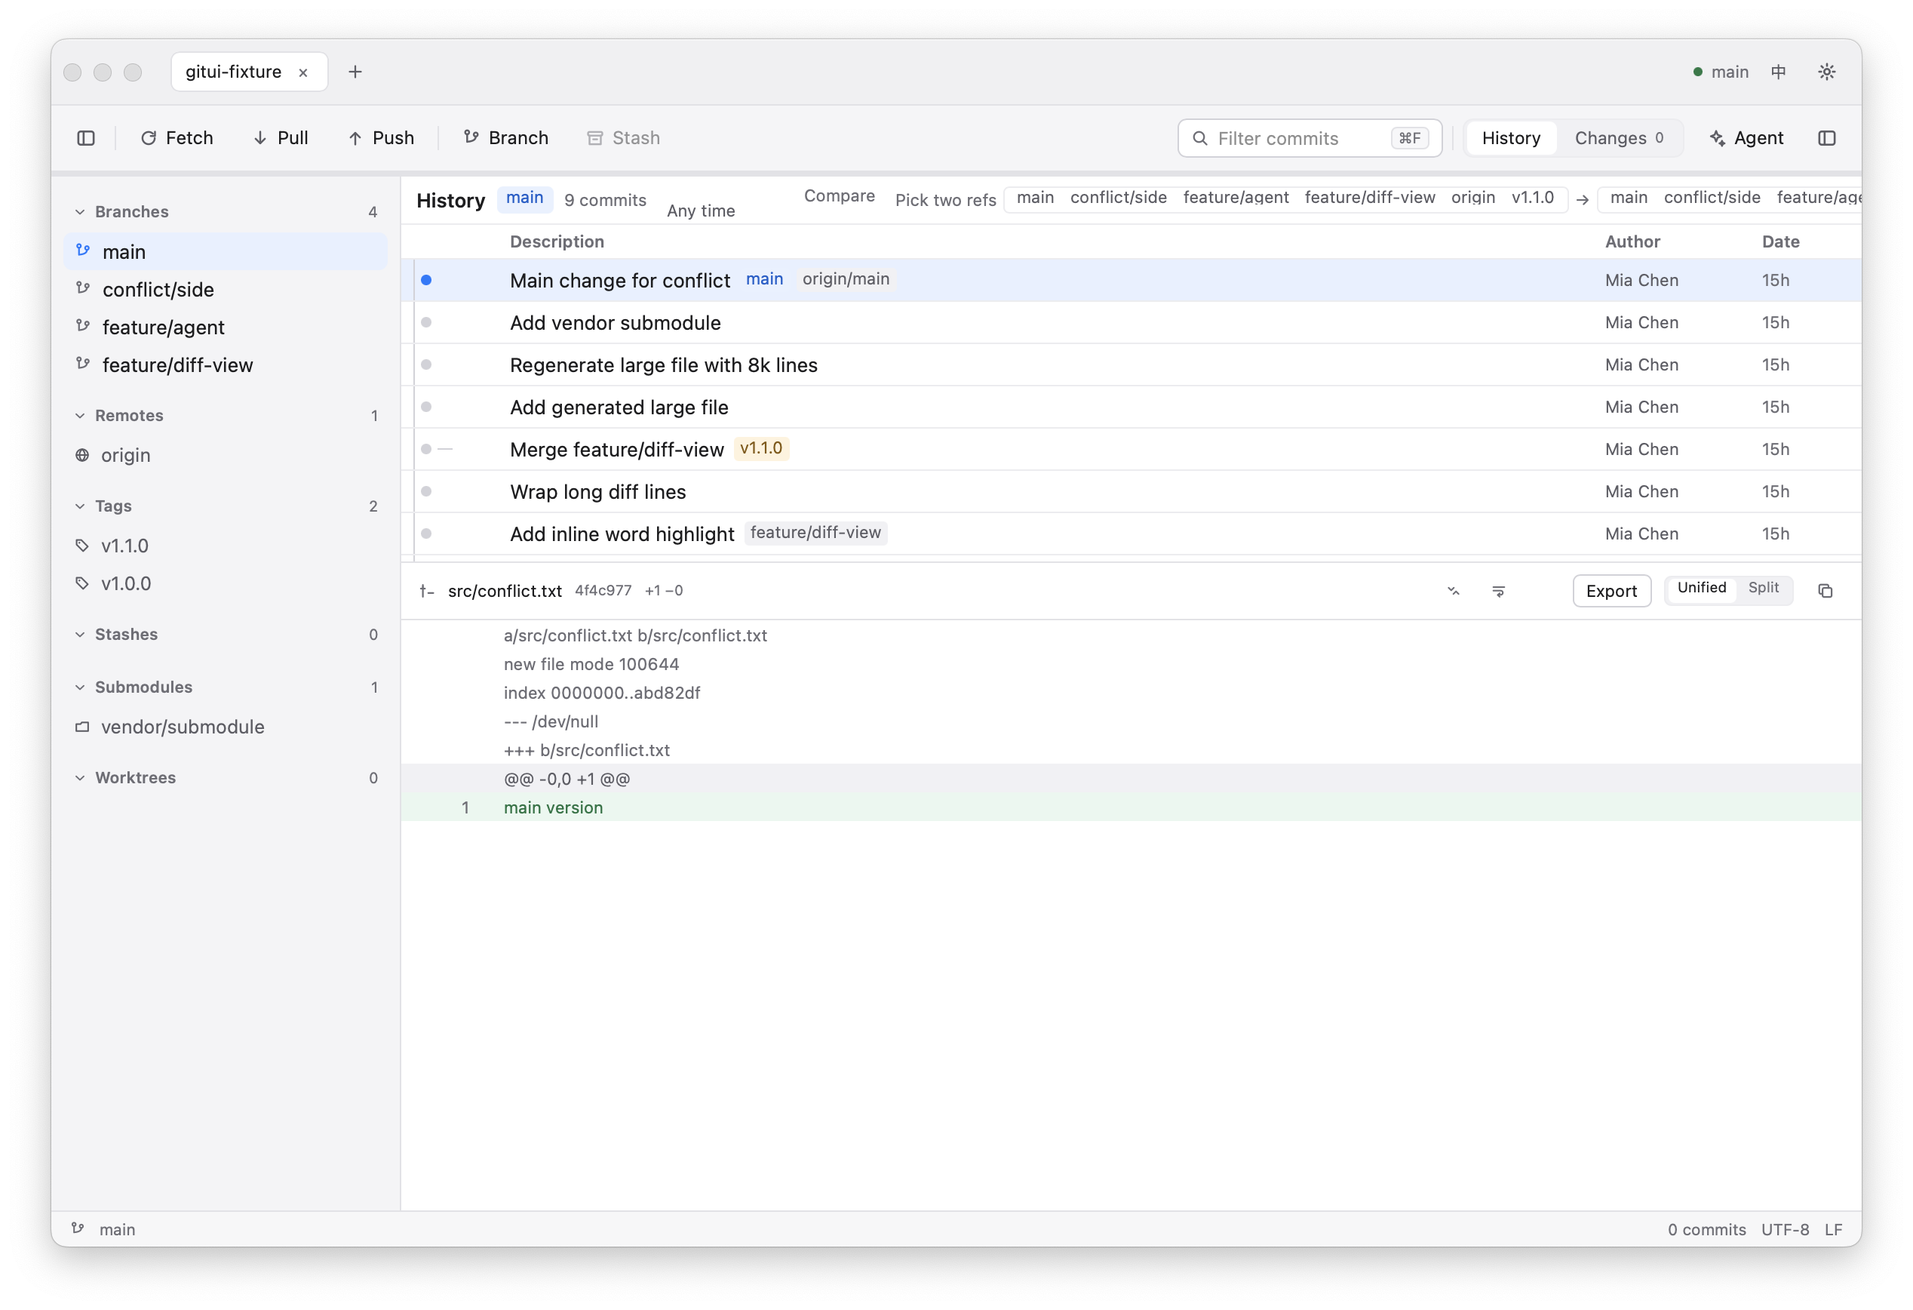
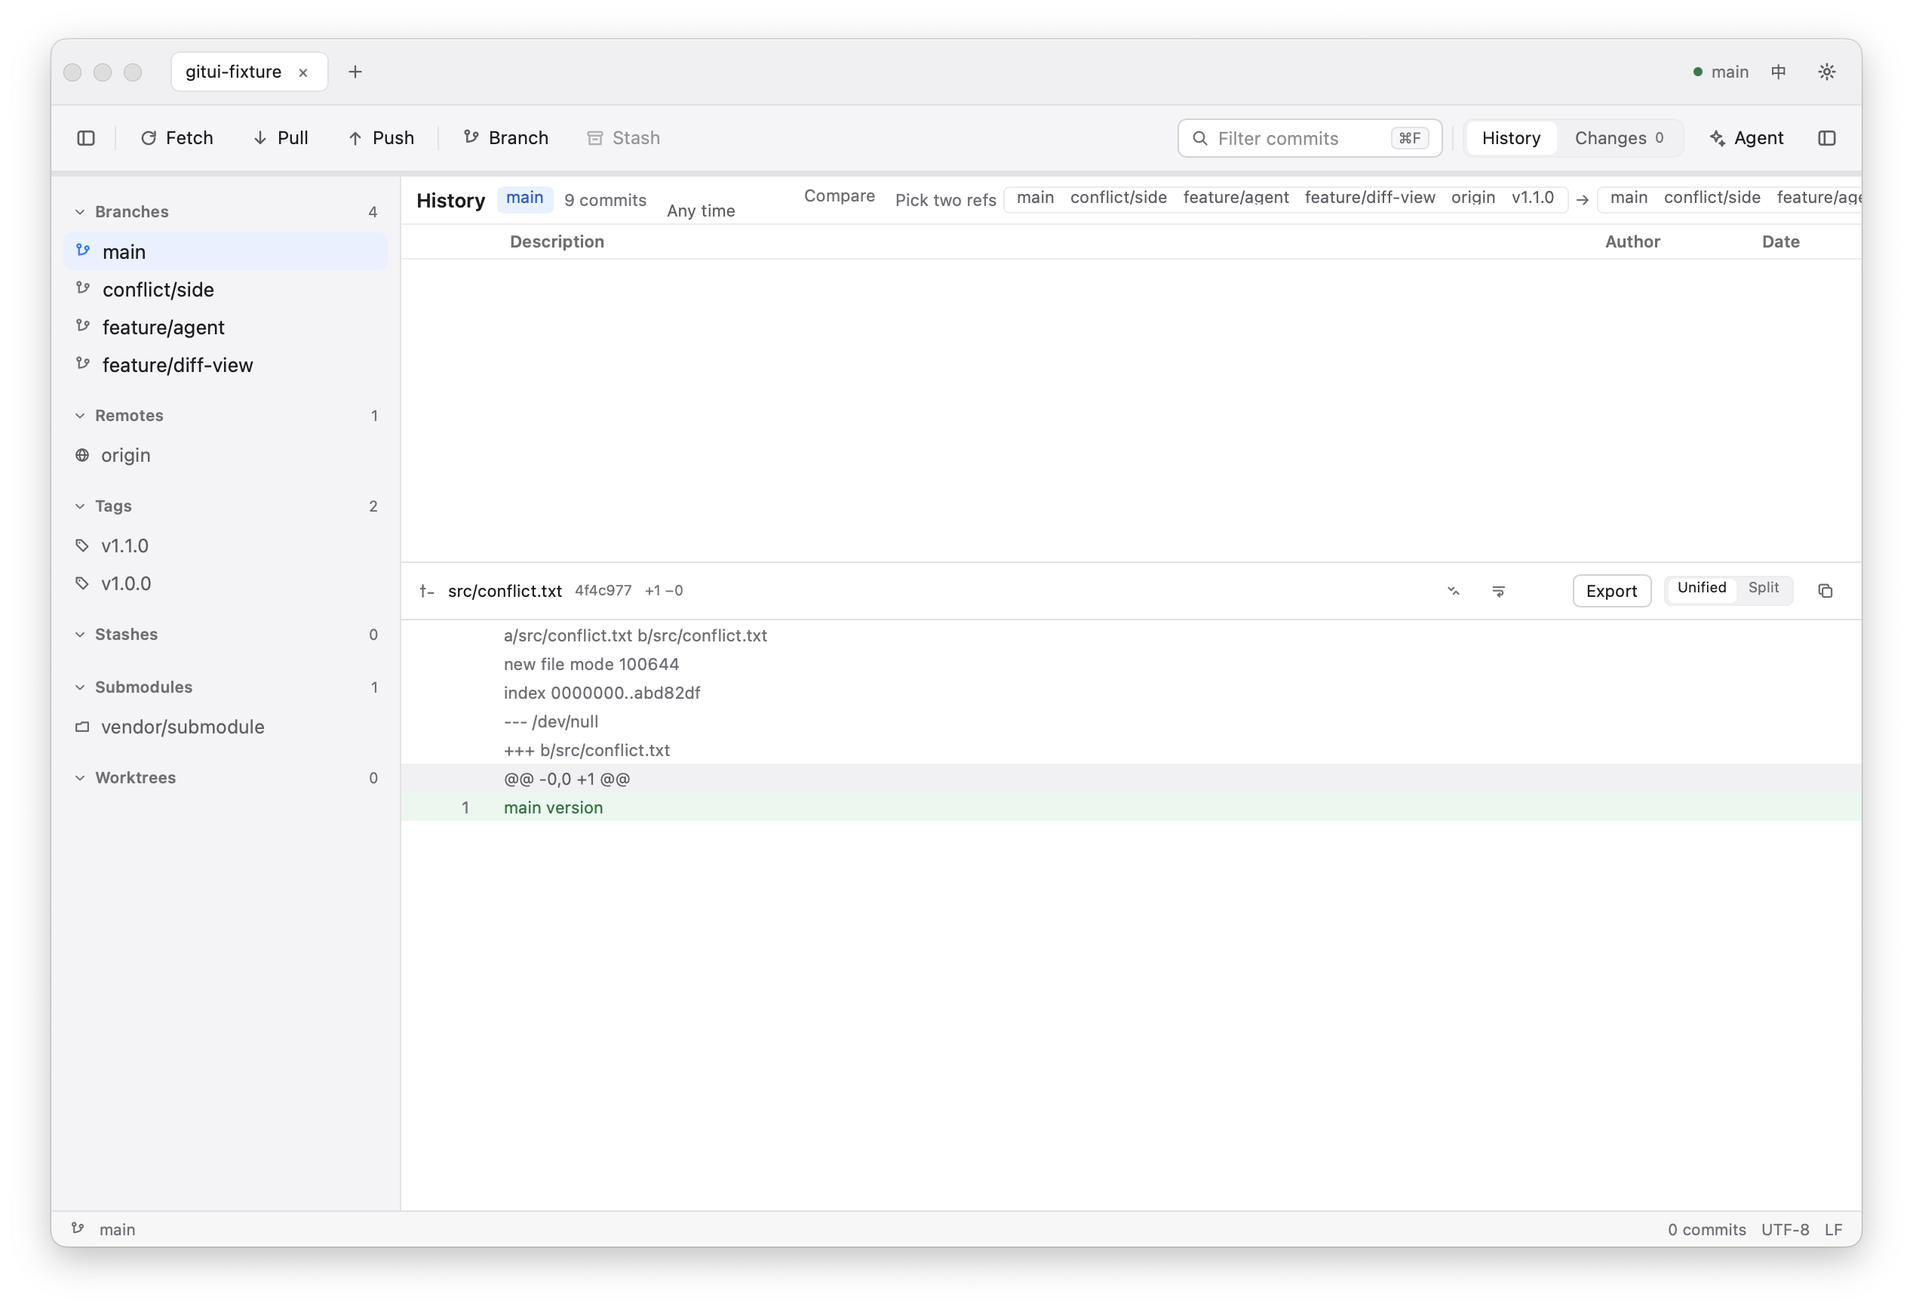
refactor(history): 历史列表改用 ui::table
P2 的核心：history.rs 的行循环换成 data_table，保留全部现有交互。

- 单列「提交」，整行交给 render 自绘：图线、摘要、引用徽章、作者、时间、
  对比强调色都保留，表格只负责虚拟化、行高（28）与键盘导航；
- on_row_press 用 DataTablePress.platform（⌘）区分：对比模式或 ⌘ 时
  toggle_compare，否则 select；
- on_context_menu 接现有的 commit_menu + popup_menu_at；
- on_select 置空，选中完全由 on_row_press 决定（与旧逻辑一致）。

上一轮卡住的两个事实（这次先查清才动手）：
- `visible` 是 Memo<Vec<(usize, Commit)>>，要用 `.get()` 取快照，不能 .iter()；
- popup_menu_at 收 `Point<Points>`，坐标字段直接给 Points(x)/Points(y)。

截图复核（docs/verify/native/workspace.png，窗口 id 92831）：提交行的图线、
摘要、作者、时间都正常，行高与间距一致，滚动与侧栏未受影响。

验证：cargo test --lib 80 项通过，cargo check --all-targets 零警告，
tools/check-ui.sh 通过。

diff --git a/apps/client/src/workspace/history.rs b/apps/client/src/workspace/history.rs
@@ -235,125 +235,149 @@ pub(crate) fn history(
                             let row_actions = row_actions.clone();
                             let squash_range = squash_range.clone();
                             let compare_for_rows = compare.clone();
-                            return view()
-                                .w_full()
-                                .flex_col()
-                                .child(each(
-                                    visible,
-                                    |row: &(usize, domain::Commit)| row.0,
-                                    move |row, _| {
-                                        let (index, commit) = row.get();
-                                        let select = select.clone();
-                                        let select_menu = select.clone();
-                                        let toggle_compare = toggle_compare.clone();
-                                        let row_actions_row = row_actions.clone();
-                                        let squash_range_for_row = squash_range.clone();
-                                        let compare_for_rows = compare_for_rows.clone();
-                                        let is_selected = selected == Some(index);
-                                        let in_compare = compare_for_rows.contains(&index);
-                                        let is_merge = commit.parents.len() > 1;
-                                        let has_refs = !commit.refs.is_empty();
-                                        view()
-                                            .w_full()
-                                            .h(px(metrics::COMMIT_ROW_H))
-                                            .flex_row()
-                                            .items_center()
-                                            .gap(px(8.0))
-                                            .px(px(8.0))
-                                            .border_b_1()
-                                            .border_color(move || design::line_soft())
-                                            .bg(move || {
-                                                if in_compare {
-                                                    design::accent_soft()
-                                                } else if is_selected {
-                                                    design::selected()
-                                                } else {
-                                                    AdaptiveColor::TRANSPARENT
-                                                }
-                                            })
-                                            .hover(|style| style.bg(move || design::hover()))
-                                            .on_press(move |event: &PressEvent| {
-                                                // 对比模式下点击是加入/移出集合；
-                                                // 否则普通点击选中，⌘ 点击也加入对比。
-                                                if compare_mode.get_untracked()
-                                                    || event.modifiers.cmd
-                                                {
-                                                    toggle_compare(index);
-                                                } else {
-                                                    select(index);
-                                                }
-                                            })
-                                            // 右键：提交级操作（设计板 21）。
-                                            .on_context_menu({
-                                                let summary = commit.summary.clone();
-                                                let short = commit.short.clone();
-                                                move |event: &nsh_core::ContextMenuEvent| {
-                                                    let items = commit_menu(
-                                                        language_value,
-                                                        short.as_str(),
-                                                        summary.as_str(),
-                                                        index,
-                                                        select_menu.clone(),
-                                                        row_actions_row.clone(),
-                                                        reset_request,
-                                                        squash_range_for_row.clone(),
-                                                        can_squash,
-                                                    );
-                                                    let _ = nsh_core::element::desktop::popup_menu_at(
-                                                        items,
-                                                        event.page_position,
-                                                    );
-                                                }
-                                            })
-                                            .child(graph_cell(is_selected || in_compare, is_merge))
-                                            .child(
-                                                view()
-                                                    .flex_1()
-                                                    .min_w_0()
-                                                    .flex_row()
-                                                    .items_center()
-                                                    .gap(px(6.0))
-                                                    .child(
-                                                        text(move || commit.summary.clone())
-                                                            .text_size(px(crate::ui::BODY))
-                                                            .text_color(move || design::text())
-                                                            .text_overflow(nsh_core::EllipsizeMode::Tail),
-                                                    )
-                                                    .child(
-                                                        view()
-                                                            .h(px(16.0))
-                                                            .flex_row()
-                                                            .items_center()
-                                                            .gap(px(4.0))
-                                                            .when(has_refs, |this| {
-                                                                this.child(ref_chips(commit.refs.clone()))
-                                                            }),
-                                                    ),
-                                            )
-                                            .child(
-                                                text(move || commit.author.clone())
-                                                    .w(px(AUTHOR_W))
-                                                    .text_size(px(crate::ui::SECONDARY))
-                                                    .text_color(move || design::text2())
-                                                    .text_overflow(nsh_core::EllipsizeMode::Tail),
-                                            )
-                                            .child(
-                                                text(move || {
-                                                    let timestamp =
-                                                        commit.date.parse().unwrap_or(0);
-                                                    crate::dates::format(
-                                                        language_value.get().as_str(),
-                                                        timestamp,
-                                                        now,
-                                                    )
-                                                })
-                                                .w(px(DATE_W))
+                            // 表格：单列，整行交给 render 自绘——图线、引用徽章、对比
+                            // 强调色都要保留，表格只负责虚拟化、行高与键盘导航。
+                            // `visible` 是 Memo，先取一份快照供 render 与回调按索引取行。
+                            let rows_snapshot = visible.get();
+                            let rows: Vec<Vec<String>> = rows_snapshot
+                                .iter()
+                                .map(|(index, _commit)| vec![index.to_string()])
+                                .collect();
+                            let commits_for_render = rows_snapshot.clone();
+                            let compare_for_render = compare_for_rows.clone();
+                            let select_for_press = select.clone();
+                            let toggle_for_press = toggle_compare.clone();
+                            let compare_mode_for_press = compare_mode;
+                            let menu_select = select.clone();
+                            let menu_actions = row_actions.clone();
+                            let menu_squash = squash_range.clone();
+                            let commits_for_press = rows_snapshot.clone();
+                            let commits_for_menu = rows_snapshot.clone();
+                            return crate::ui::table::table(crate::ui::table::TableSpec {
+                                columns: vec![crate::ui::table::Column {
+                                    key: "commit",
+                                    title: None,
+                                    width: None,
+                                    fixed: false,
+                                }],
+                                rows,
+                                selected,
+                                row_height: Some(metrics::COMMIT_ROW_H),
+                                on_select: Box::new(move |_index| {}),
+                                render: Some(Box::new(move |row, _key, _text| {
+                                    let Some((index, commit)) =
+                                        commits_for_render.get(row as usize).cloned()
+                                    else {
+                                        return view().w_full().h_full().into_element();
+                                    };
+                                    let is_selected = selected == Some(index);
+                                    let in_compare = compare_for_render.contains(&index);
+                                    let is_merge = commit.parents.len() > 1;
+                                    let has_refs = !commit.refs.is_empty();
+                                    return view()
+                                        .w_full()
+                                        .h_full()
+                                        .flex_row()
+                                        .items_center()
+                                        .gap(px(8.0))
+                                        .px(px(8.0))
+                                        .bg(move || {
+                                            if in_compare {
+                                                design::accent_soft()
+                                            } else {
+                                                AdaptiveColor::TRANSPARENT
+                                            }
+                                        })
+                                        .child(graph_cell(is_selected || in_compare, is_merge))
+                                        .child(
+                                            view()
+                                                .flex_1()
+                                                .min_w_0()
+                                                .flex_row()
+                                                .items_center()
+                                                .gap(px(6.0))
+                                                .child(
+                                                    text(commit.summary.clone())
+                                                        .text_size(px(crate::ui::BODY))
+                                                        .text_color(move || design::text())
+                                                        .text_overflow(
+                                                            nsh_core::EllipsizeMode::Tail,
+                                                        ),
+                                                )
+                                                .child(
+                                                    view()
+                                                        .h(px(16.0))
+                                                        .flex_row()
+                                                        .items_center()
+                                                        .gap(px(4.0))
+                                                        .when(has_refs, |this| {
+                                                            this.child(ref_chips(commit.refs.clone()))
+                                                        }),
+                                                ),
+                                        )
+                                        .child(
+                                            text(commit.author.clone())
+                                                .w(px(AUTHOR_W))
                                                 .text_size(px(crate::ui::SECONDARY))
-                                                .text_color(move || design::text3()),
-                                            )
-                                    },
-                                ))
-                                .into_element();
+                                                .text_color(move || design::text2())
+                                                .text_overflow(nsh_core::EllipsizeMode::Tail),
+                                        )
+                                        .child(
+                                            text({
+                                                let timestamp = commit.date.parse().unwrap_or(0);
+                                                crate::dates::format(
+                                                    language_value.get().as_str(),
+                                                    timestamp,
+                                                    now,
+                                                )
+                                            })
+                                            .w(px(DATE_W))
+                                            .text_size(px(crate::ui::SECONDARY))
+                                            .text_color(move || design::text3()),
+                                        )
+                                        .into_element();
+                                })),
+                                on_row_press: Some(Box::new(move |row, platform| {
+                                    let Some((index, _)) =
+                                        commits_for_press.get(row as usize).cloned()
+                                    else {
+                                        return;
+                                    };
+                                    // 对比模式下点击是加入/移出集合；否则普通点击选中，
+                                    // ⌘ 点击也加入对比。
+                                    if compare_mode_for_press.get_untracked() || platform {
+                                        toggle_for_press(index);
+                                    } else {
+                                        select_for_press(index);
+                                    }
+                                })),
+                                on_context_menu: Some(Box::new(move |row, x, y| {
+                                    let Some((index, commit)) =
+                                        commits_for_menu.get(row as usize).cloned()
+                                    else {
+                                        return;
+                                    };
+                                    let items = commit_menu(
+                                        language_value,
+                                        commit.short.as_str(),
+                                        commit.summary.as_str(),
+                                        index,
+                                        menu_select.clone(),
+                                        menu_actions.clone(),
+                                        reset_request,
+                                        menu_squash.clone(),
+                                        can_squash,
+                                    );
+                                    let _ = nsh_core::element::desktop::popup_menu_at(
+                                        items,
+                                        nsh_core::Point {
+                                            x: Points(x),
+                                            y: Points(y),
+                                        },
+                                    );
+                                })),
+                            })
+                            .into_element();
                         })),
                 ),
             ),
